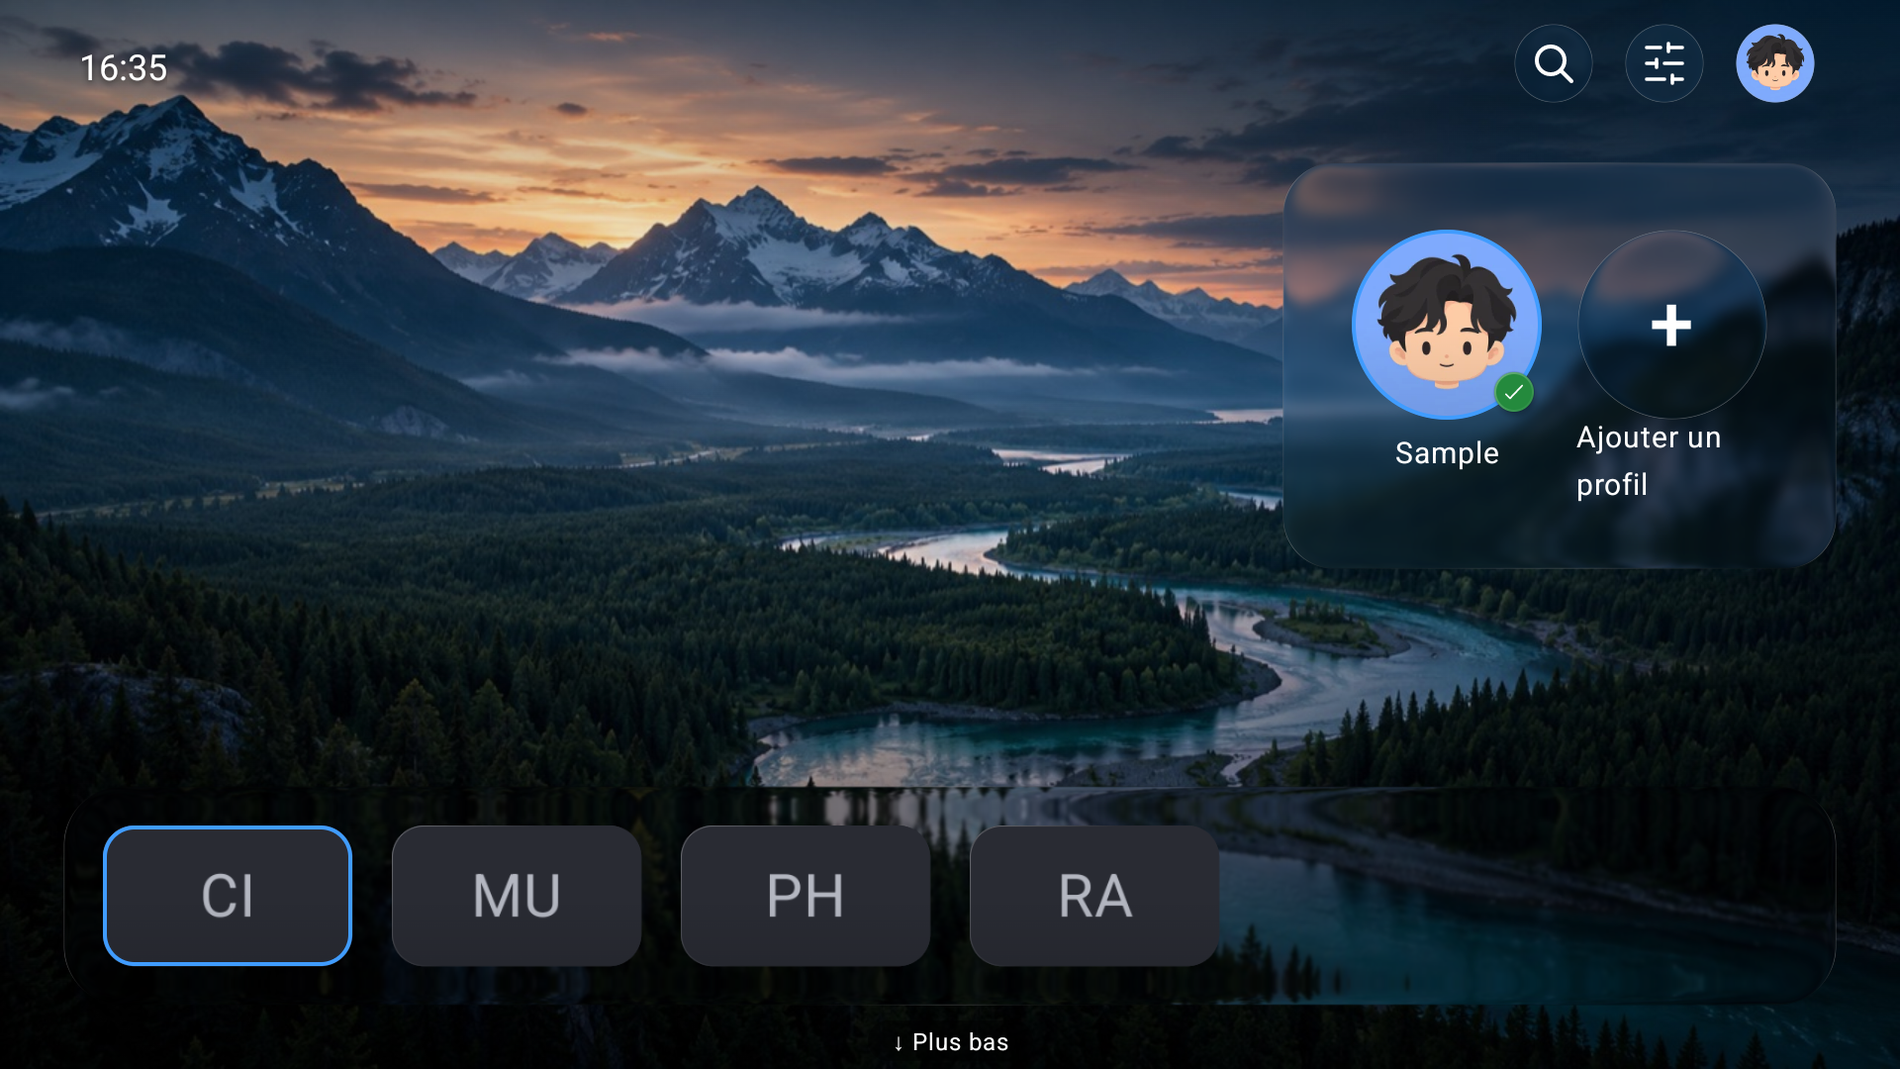
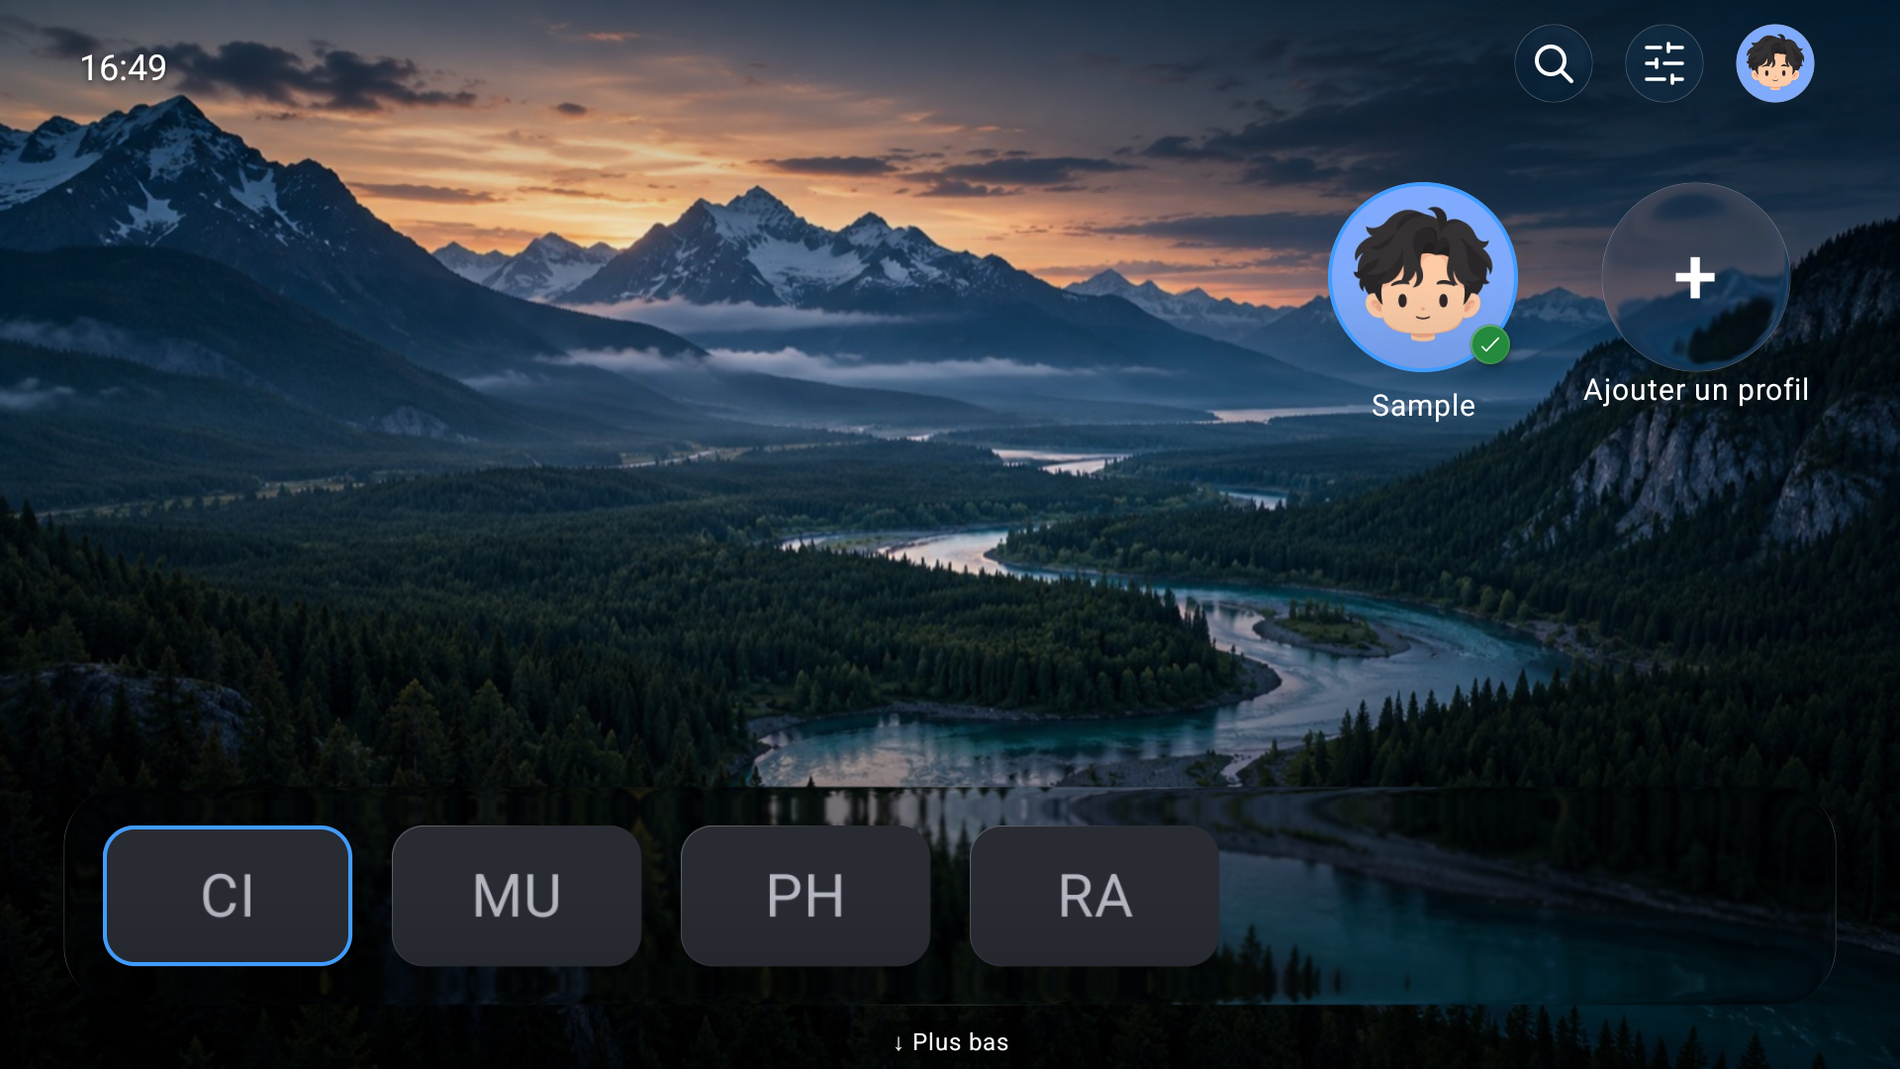
fix: keep profile circles floating and sample visible scene
Remove the switcher backing panel while preserving the editor surface. Feed the Add Profile circle a lifecycle-owned bounded Activity snapshot so Watch Next artwork contributes to its optics, and keep focused/pressed fills transparent.

Verify foreground sampling, focused balanced/live glass, solid accessibility fallback, profile focus/editing, and unchanged scene pixels on physical API 34. Required build gates and 15 physical cases pass. Refresh the curated profile screenshot.

diff --git a/feature/profiles/src/main/java/fr/deuspheara/oree/feature/profiles/presentation/screen/ProfilePanel.kt b/feature/profiles/src/main/java/fr/deuspheara/oree/feature/profiles/presentation/screen/ProfilePanel.kt
@@ -1,6 +1,7 @@
 package fr.deuspheara.oree.feature.profiles.presentation.screen
 
 import androidx.compose.foundation.ExperimentalFoundationApi
+import androidx.compose.foundation.Image
 import androidx.compose.foundation.background
 import androidx.compose.foundation.combinedClickable
 import androidx.compose.foundation.gestures.BringIntoViewSpec
@@ -40,18 +41,22 @@ import androidx.compose.runtime.withFrameNanos
 import androidx.compose.ui.Alignment
 import androidx.compose.ui.Modifier
 import androidx.compose.ui.draw.alpha
+import androidx.compose.ui.draw.drawWithContent
 import androidx.compose.ui.focus.FocusRequester
 import androidx.compose.ui.focus.focusRequester
 import androidx.compose.ui.focus.onFocusChanged
 import androidx.compose.ui.geometry.Offset
 import androidx.compose.ui.graphics.Color
+import androidx.compose.ui.graphics.ImageBitmap
 import androidx.compose.ui.graphics.SolidColor
+import androidx.compose.ui.graphics.drawscope.clipRect
 import androidx.compose.ui.input.key.Key
 import androidx.compose.ui.input.key.KeyEvent
 import androidx.compose.ui.input.key.KeyEventType
 import androidx.compose.ui.input.key.key
 import androidx.compose.ui.input.key.onPreviewKeyEvent
 import androidx.compose.ui.input.key.type
+import androidx.compose.ui.layout.ContentScale
 import androidx.compose.ui.platform.LocalWindowInfo
 import androidx.compose.ui.platform.testTag
 import androidx.compose.ui.res.stringResource
@@ -73,6 +78,8 @@ import androidx.compose.ui.zIndex
 import androidx.tv.material3.Button
 import androidx.tv.material3.ButtonDefaults
 import androidx.tv.material3.Text
+import dev.chrisbanes.haze.hazeSource
+import dev.chrisbanes.haze.rememberHazeState
 import fr.deuspheara.oree.core.designsystem.R
 import fr.deuspheara.oree.core.designsystem.artwork.FocusArtwork
 import fr.deuspheara.oree.core.designsystem.avatar.ProfileAvatar
@@ -81,7 +88,11 @@ import fr.deuspheara.oree.core.designsystem.component.panelMotion
 import fr.deuspheara.oree.core.designsystem.component.rememberPanelTransition
 import fr.deuspheara.oree.core.designsystem.glass.GlassDialog
 import fr.deuspheara.oree.core.designsystem.glass.GlassSurfaceRole
+import fr.deuspheara.oree.core.designsystem.glass.GlassTreatment
+import fr.deuspheara.oree.core.designsystem.glass.LocalGlassSource
+import fr.deuspheara.oree.core.designsystem.glass.LocalLiquidGlass
 import fr.deuspheara.oree.core.designsystem.glass.LocalOpaquePanels
+import fr.deuspheara.oree.core.designsystem.glass.LocalReducedTransparency
 import fr.deuspheara.oree.core.designsystem.glass.RetainedMenuSurface
 import fr.deuspheara.oree.core.designsystem.glass.glassControlForeground
 import fr.deuspheara.oree.core.designsystem.glass.glassSurface
@@ -104,6 +115,7 @@ fun ProfilePanel(
     onDelete: (String) -> Unit,
     onClose: () -> Unit,
     sourceKey: Any? = null,
+    backdrop: ImageBitmap? = null,
 ) {
     val addLabel = stringResource(R.string.add_profile)
     val editLabel = stringResource(R.string.edit_profile)
@@ -125,7 +137,13 @@ fun ProfilePanel(
             }
         }
     }
-    CompositionLocalProvider(LocalBringIntoViewSpec provides keepVisible) {
+    val sceneSource = rememberHazeState()
+    val sampleScene = backdrop != null && !opaque && LocalLiquidGlass.current &&
+        !LocalReducedTransparency.current && !LocalOpaquePanels.current
+    CompositionLocalProvider(
+        LocalBringIntoViewSpec provides keepVisible,
+        LocalGlassSource provides if (sampleScene) sceneSource else LocalGlassSource.current,
+    ) {
         GlassDialog(
             onDismissRequest = {
                 if (!saving) {
@@ -138,6 +156,7 @@ fun ProfilePanel(
                 }
             },
         ) {
+            if (sampleScene) ProfileSceneSource(backdrop!!, sceneSource)
             Box(
                 Modifier.fillMaxSize()
                     .onPreviewKeyEvent { event ->
@@ -173,14 +192,16 @@ fun ProfilePanel(
                         .panelMotion(motion, reduced, 32f)
                         .testTag("profile-panel"),
                 ) {
-                    CompositionLocalProvider(
-                        LocalOpaquePanels provides (opaque || LocalOpaquePanels.current),
-                    ) {
-                        RetainedMenuSurface(sourceKey, reduced, Modifier.matchParentSize())
+                    if (editing) {
+                        CompositionLocalProvider(
+                            LocalOpaquePanels provides (opaque || LocalOpaquePanels.current),
+                        ) {
+                            RetainedMenuSurface(sourceKey, reduced, Modifier.matchParentSize())
+                        }
                     }
                     Column(
                         Modifier.verticalScroll(rememberScrollState())
-                            .padding(24.dp),
+                            .padding(if (editing) 24.dp else 0.dp),
                         verticalArrangement = Arrangement.spacedBy(14.dp),
                     ) {
                         if (editing) {
@@ -303,7 +324,7 @@ fun ProfilePanel(
                                             enabled = !saving && snapshot.profiles.size < 12,
                                             modifier =
                                                 Modifier.size(96.dp)
-                                                    .glassSurface(radius = 48.dp)
+                                                    .glassSurface(opaque = opaque, radius = 48.dp, treatment = GlassTreatment.CLEAR)
                                                     .onPreviewKeyEvent { event ->
                                                         if (
                                                             snapshot.profiles.size < 2 &&
@@ -326,7 +347,11 @@ fun ProfilePanel(
                                             colors =
                                                 ButtonDefaults.colors(
                                                     containerColor = Color.Transparent,
+                                                    focusedContainerColor = Color.Transparent,
+                                                    pressedContainerColor = Color.Transparent,
                                                     contentColor = glassControlForeground(),
+                                                    focusedContentColor = glassControlForeground(),
+                                                    pressedContentColor = glassControlForeground(),
                                                 ),
                                             contentPadding = PaddingValues(12.dp),
                                         ) {
@@ -447,4 +472,17 @@ fun ProfilePanel(
             }
         }
     }
+}
+
+/** Sample the Activity scene behind this native dialog without repainting the reduced-size copy. */
+@Composable
+private fun ProfileSceneSource(backdrop: ImageBitmap, source: dev.chrisbanes.haze.HazeState) {
+    Image(
+        backdrop,
+        null,
+        Modifier.fillMaxSize()
+            .drawWithContent { clipRect(0f, 0f, 0f, 0f) { this@drawWithContent.drawContent() } }
+            .hazeSource(source),
+        contentScale = ContentScale.FillBounds,
+    )
 }

diff --git a/app/src/androidTest/java/fr/deuspheara/oree/ProfileGlassTest.kt b/app/src/androidTest/java/fr/deuspheara/oree/ProfileGlassTest.kt
@@ -1,0 +1,115 @@
+package fr.deuspheara.oree
+
+import android.app.Activity
+import android.graphics.Bitmap
+import android.graphics.Color as PixelColor
+import androidx.compose.foundation.background
+import androidx.compose.foundation.layout.Box
+import androidx.compose.foundation.layout.fillMaxSize
+import androidx.compose.foundation.layout.size
+import androidx.compose.runtime.CompositionLocalProvider
+import androidx.compose.runtime.getValue
+import androidx.compose.runtime.mutableStateOf
+import androidx.compose.runtime.rememberCoroutineScope
+import androidx.compose.runtime.setValue
+import androidx.compose.ui.Alignment
+import androidx.compose.ui.Modifier
+import androidx.compose.ui.geometry.Rect
+import androidx.compose.ui.graphics.Color
+import androidx.compose.ui.graphics.ImageBitmap
+import androidx.compose.ui.graphics.asImageBitmap
+import androidx.compose.ui.semantics.SemanticsActions
+import androidx.compose.ui.test.assertIsFocused
+import androidx.compose.ui.test.junit4.createComposeRule
+import androidx.compose.ui.test.onNodeWithTag
+import androidx.compose.ui.test.performSemanticsAction
+import androidx.compose.ui.unit.dp
+import androidx.test.platform.app.InstrumentationRegistry
+import dev.chrisbanes.haze.hazeSource
+import dev.chrisbanes.haze.rememberHazeState
+import fr.deuspheara.oree.core.designsystem.glass.LocalGlassSource
+import fr.deuspheara.oree.core.designsystem.glass.LocalLiveGlass
+import fr.deuspheara.oree.core.designsystem.glass.LocalReducedTransparency
+import fr.deuspheara.oree.core.designsystem.theme.LauncherTheme
+import fr.deuspheara.oree.core.model.LauncherPreferences
+import fr.deuspheara.oree.core.model.LocalProfile
+import fr.deuspheara.oree.core.model.ProfileSnapshot
+import fr.deuspheara.oree.core.platform.image.captureMenuBackdrop
+import fr.deuspheara.oree.feature.profiles.presentation.screen.ProfilePanel
+import java.io.File
+import kotlinx.coroutines.CoroutineScope
+import kotlinx.coroutines.launch
+import org.junit.Assert.assertTrue
+import org.junit.Rule
+import org.junit.Test
+
+/** Foreground artwork must contribute to the circle; wallpaper alone must not substitute for it. */
+class ProfileGlassTest {
+    @get:Rule val compose = createComposeRule()
+
+    @Test fun addCircleSamplesForegroundSceneWithoutPanelAndStaysTransparentWhenFocused() {
+        lateinit var activity: Activity
+        lateinit var scope: CoroutineScope
+        var backdrop by mutableStateOf<ImageBitmap?>(null)
+        var live by mutableStateOf(false)
+        var opaque by mutableStateOf(false)
+        val profile = LocalProfile("fixture", "Sample")
+        compose.setContent {
+            activity = checkNotNull(androidx.activity.compose.LocalActivity.current)
+            scope = rememberCoroutineScope()
+            val wallpaperSource = rememberHazeState()
+            LauncherTheme(LauncherPreferences()) {
+                CompositionLocalProvider(
+                    LocalGlassSource provides wallpaperSource,
+                    LocalLiveGlass provides live,
+                    LocalReducedTransparency provides opaque,
+                ) {
+                    Box(Modifier.fillMaxSize()) {
+                        Box(Modifier.fillMaxSize().background(Color.Blue).hazeSource(wallpaperSource))
+                        Box(Modifier.align(Alignment.TopEnd).size(420.dp, 360.dp).background(Color.Red))
+                    }
+                    ProfilePanel(
+                        ProfileSnapshot(profile.id, listOf(profile)), true, opaque, false, false,
+                        {}, { _, _, _ -> }, {}, {}, backdrop = backdrop,
+                    )
+                }
+            }
+        }
+        compose.waitForIdle()
+        compose.runOnIdle { scope.launch { backdrop = captureMenuBackdrop(activity)?.image?.asImageBitmap() } }
+        compose.waitUntil(3000) { backdrop != null }
+        fun capture(name: String): Pair<Int, Int> {
+            compose.waitForIdle()
+            android.os.SystemClock.sleep(400)
+            val bounds: Rect = compose.onNodeWithTag("add-profile").fetchSemanticsNode().boundsInRoot
+            val instrumentation = InstrumentationRegistry.getInstrumentation()
+            val image = instrumentation.uiAutomation.takeScreenshot()
+            try {
+                File(instrumentation.targetContext.cacheDir, "profile-circle-$name.png").outputStream().use {
+                    image.compress(Bitmap.CompressFormat.PNG, 100, it)
+                }
+                return image.getPixel((bounds.left + bounds.width * .25f).toInt(), bounds.center.y.toInt()) to
+                    image.getPixel((bounds.right + 14).toInt(), bounds.center.y.toInt())
+            } finally {
+                image.recycle()
+            }
+        }
+        fun assertScene(name: String) {
+            val (circle, outside) = capture(name)
+            assertTrue("Circle samples foreground artwork: $name", PixelColor.red(circle) > PixelColor.blue(circle) + 80)
+            assertTrue(
+                "Outside the circle stays the original scene, without a panel: $name",
+                PixelColor.red(outside) > 245 && PixelColor.blue(outside) < 10,
+            )
+        }
+        assertScene("balanced")
+        compose.onNodeWithTag("add-profile").performSemanticsAction(SemanticsActions.RequestFocus) { it() }
+        compose.onNodeWithTag("add-profile").assertIsFocused()
+        assertScene("balanced-focused")
+        compose.runOnIdle { live = true }
+        assertScene("live-focused")
+        compose.runOnIdle { opaque = true }
+        val (solid, _) = capture("opaque")
+        assertTrue("Reduced transparency overrides scene sampling", kotlin.math.abs(PixelColor.red(solid) - PixelColor.blue(solid)) < 40)
+    }
+}

diff --git a/app/src/main/java/fr/deuspheara/oree/presentation/LauncherRoot.kt b/app/src/main/java/fr/deuspheara/oree/presentation/LauncherRoot.kt
@@ -539,6 +539,24 @@ fun LauncherRoot(
         }
     }
     LaunchedEffect(commands) { if (!commands) commandBackdrop = null }
+    var profileBackdrop by remember { mutableStateOf<WallpaperFrame?>(null) }
+    val sampleProfileScene = android.os.Build.VERSION.SDK_INT >= 33 && active.liquidGlass && !active.reduceTransparency &&
+        !active.highContrast && active.quality != QualityTier.ECONOMY && !settingsOpen
+    LaunchedEffect(profilesOpen, profile?.id, sampleProfileScene, lifecycle) {
+        profileBackdrop = null
+        if (profilesOpen && sampleProfileScene) {
+            lifecycle.repeatOnLifecycle(Lifecycle.State.STARTED) {
+                try {
+                    // PixelCopy reads the Activity window, excluding the separate profile Dialog.
+                    profileBackdrop = activity?.let { captureMenuBackdrop(it) }
+                    kotlinx.coroutines.awaitCancellation()
+                } finally {
+                    profileBackdrop = null
+                }
+            }
+        }
+    }
+
     fun openContent(entry: ContentEntry) {
         scope.launch {
             val request = resolveContent(context, entry.intentUri, entry.source)
@@ -1691,7 +1709,8 @@ fun LauncherRoot(
                             profilesOpen = false
                             restoreEpoch++
                         },
-                        sourceKey = frame,
+                        sourceKey = profileBackdrop ?: frame,
+                        backdrop = remember(profileBackdrop) { profileBackdrop?.image?.asImageBitmap() },
                     )
                 }
                 if (photoGalleryOpen && profile != null) {

diff --git a/feature/profiles/src/main/java/fr/deuspheara/oree/feature/profiles/presentation/route/ProfilesRoute.kt b/feature/profiles/src/main/java/fr/deuspheara/oree/feature/profiles/presentation/route/ProfilesRoute.kt
@@ -3,6 +3,7 @@ package fr.deuspheara.oree.feature.profiles.presentation.route
 import androidx.compose.runtime.Composable
 import androidx.compose.runtime.LaunchedEffect
 import androidx.compose.runtime.getValue
+import androidx.compose.ui.graphics.ImageBitmap
 import androidx.lifecycle.compose.collectAsStateWithLifecycle
 import fr.deuspheara.oree.core.model.ProfileSnapshot
 import fr.deuspheara.oree.feature.profiles.presentation.screen.ProfilePanel
@@ -19,6 +20,7 @@ fun ProfilesRoute(
     onCompleted: () -> Unit,
     onClose: () -> Unit,
     sourceKey: Any? = null,
+    backdrop: ImageBitmap? = null,
 ) {
     val state by model.state.collectAsStateWithLifecycle()
     LaunchedEffect(state.status) {
@@ -39,5 +41,6 @@ fun ProfilesRoute(
             onClose()
         },
         sourceKey = sourceKey,
+        backdrop = backdrop,
     )
 }

diff --git a/docs/TEST_PLAN.md b/docs/TEST_PLAN.md
@@ -335,3 +335,9 @@ See Performance for every block and the excluded disconnected instrumentation at
 Run `PublicScreenshotsTest` directly on a physical TV for project-only Home, profile and quality-rail documentation scenes. It uses in-memory sample profiles/apps and original bundled wallpaper without writing configured stores. Curated documentation exports may be tracked under `docs/screenshots/`; personal captures, APKs, device identifiers and raw verification evidence remain private. Screenshots establish appearance only, not timing.
 
 Verification on 24 October 2026: required Gradle gates and avatar export validation pass. The final physical API 34 suite passes 20 tests across PublicScreenshots, HomeCardResponse, ProfileExperienceCodec, ProfileMenuVisual, ProfilePanel and VisualExperience. Configured DataStore files compare unchanged before/after the suite; default HOME remains unchanged. Documentation screenshots are reviewed sample scenes. These runs establish the covered functional and appearance behavior, without new frame-time or broad compatibility claims.
+
+## Profile circle scene regression
+
+`ProfileGlassTest` places a foreground card over a different wallpaper color, captures the Activity while the native profile dialog is open, and checks hardware-window pixels. The Add Profile circle must sample the foreground, remain transparent under focus in balanced/live modes, and preserve the undimmed scene immediately outside its bounds. Reduced transparency must still use solid material. Run it with ProfilePanelTest, ProfileMenuVisualTest, HazeGlassTest, MenuBackdropTest and the public screenshot fixture; inspect the optimized profile switcher on the physical TV.
+
+The 24 October correction passes the foreground-circle pixel case and 14 adjacent physical API 34 profile, glass/backdrop and screenshot cases. All required local gates pass. Configured DataStore files compare unchanged across the runs. The curated profile screenshot is refreshed to show floating circles without a backing panel.

diff --git a/docs/DESIGN.md b/docs/DESIGN.md
@@ -359,7 +359,7 @@ the complete saved section, rather than being clamped to a temporary heading-onl
 
 Settings renders only its current level, in one centered column: categories, category content,
 or a choice page. Back returns a level; Left is not required. Nested Settings pages cover the
-parent content. The visual setup screen places a five-stop intensity rail above a bounded live
+parent content. The visual setup screen places a six-stop intensity rail above a bounded live
 preview and an explicit Finish/Apply action. Browsing the rail does not save preferences.
 Folder hover shows miniature app artwork without the redundant instruction. Continue Watching
 extends to both screen edges while the first resting card and heading share the 80 dp inset.
@@ -371,4 +371,4 @@ quality remain unchanged; oversized cache requests use the original live drawing
 
 ## Live glass and profiles
 
-The profile switcher and editor share a source-backed panel with consistent padding. Selection remains distinct from focus. Settings rows retain their selected fill and semantics without the left accent stripe. The final Visual experience step selects live Haze optics; other presets retain the existing bounded renderer.
+The profile switcher floats avatar and Add Profile circles directly over Home, without a rectangular backing. Only the editor has a panel. The Add Profile circle samples a bounded copy of the visible Activity scene, including Watch Next artwork, and retains transparent button fills when focused or pressed. Selection remains distinct from focus. Settings rows retain their selected fill and semantics without the left accent stripe. The final Visual experience step selects live Haze optics; other presets retain the existing bounded renderer.

diff --git a/docs/ARCHITECTURE.md b/docs/ARCHITECTURE.md
@@ -149,3 +149,5 @@ Home observes optional completion through an Android-free suspending palette met
 STARTED; cancellation of an observation does not cancel another card's shared preparation.
 
 `LauncherPreferences.liveGlass` is an optional profile/backup Boolean, defaulting to false for legacy data. The existing schema and IDs are preserved. The final visual preset enables it; lower presets disable it. App provides a presentation local consumed by glass and focus drawing; ViewModels remain independent of rendering APIs. Live mode bypasses precomputed optics, prepared sharp/frost inputs and retained menu images, while preserving opaque/accessibility fallbacks.
+
+Profile scene sampling is presentation-owned in the app root. While the profile dialog is open and transparent glass is enabled, a profile-keyed STARTED lifecycle effect takes the existing bounded Activity-window PixelCopy (384×216). The separate native dialog is excluded from that copy. Closing, lifecycle stop or profile changes cancel/clear it; returning to STARTED captures fresh pixels. Profiles receives only the scene image for its Haze source, with wallpaper fallback on copy failure. The source image is hidden outside glass and never repaints or dims Home. No profile/source pixels reach ViewModels or storage.
